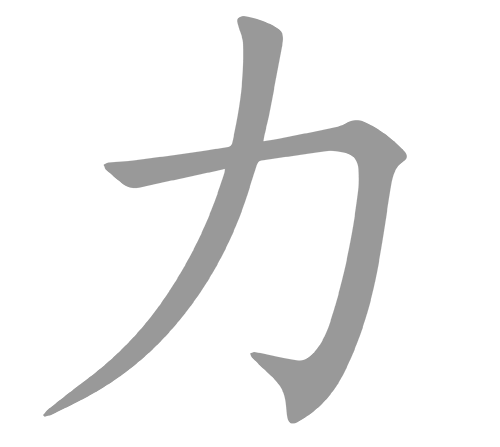
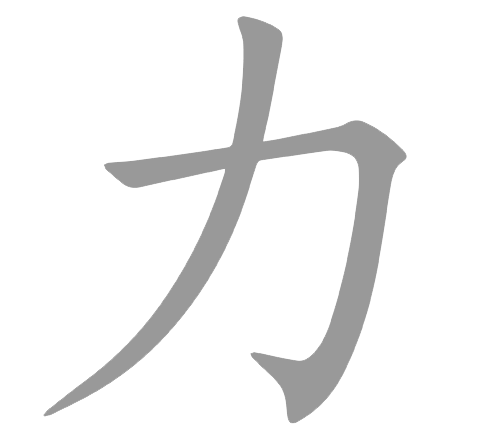
Changed brush size and added latest strength symbol

diff --git a/China/tasks/PaintBrush2.js b/China/tasks/PaintBrush2.js
@@ -12,9 +12,9 @@
 	var score = 0.0;
 	var minScore = 0.75;
 	var maxScore = 1.1; // Over 1 to prevent any errors
-	var minSize = 0.10; // TODO: scale brush image based on the current users position and velocity
-	var medSize = 0.15;
-	var maxSize = 0.25;
+	var minSize = 0.08; // TODO: scale brush image based on the current users position and velocity
+	var medSize = 0.10;
+	var maxSize = 0.20;
 
 	// Private Functions
 	var distance = function(start, end){
@@ -90,6 +90,7 @@
 			line.endVelocity[1] = (line.end[1] - line.start[1]) / (line.time * display.size[1]);
 			
 			var acc = (length(line.endVelocity) - length(line.startVelocity)) / line.time;
+			console.log(acc);
 			var scale = 1.0 - Math.max(0.0, Math.min(1.0, acc * 10000)); // Negative acceleration will produce the largest scale.
 			var lastScale = model.brushImage.lastScale;
 			scale = (maxSize - minSize) * scale + minSize;
